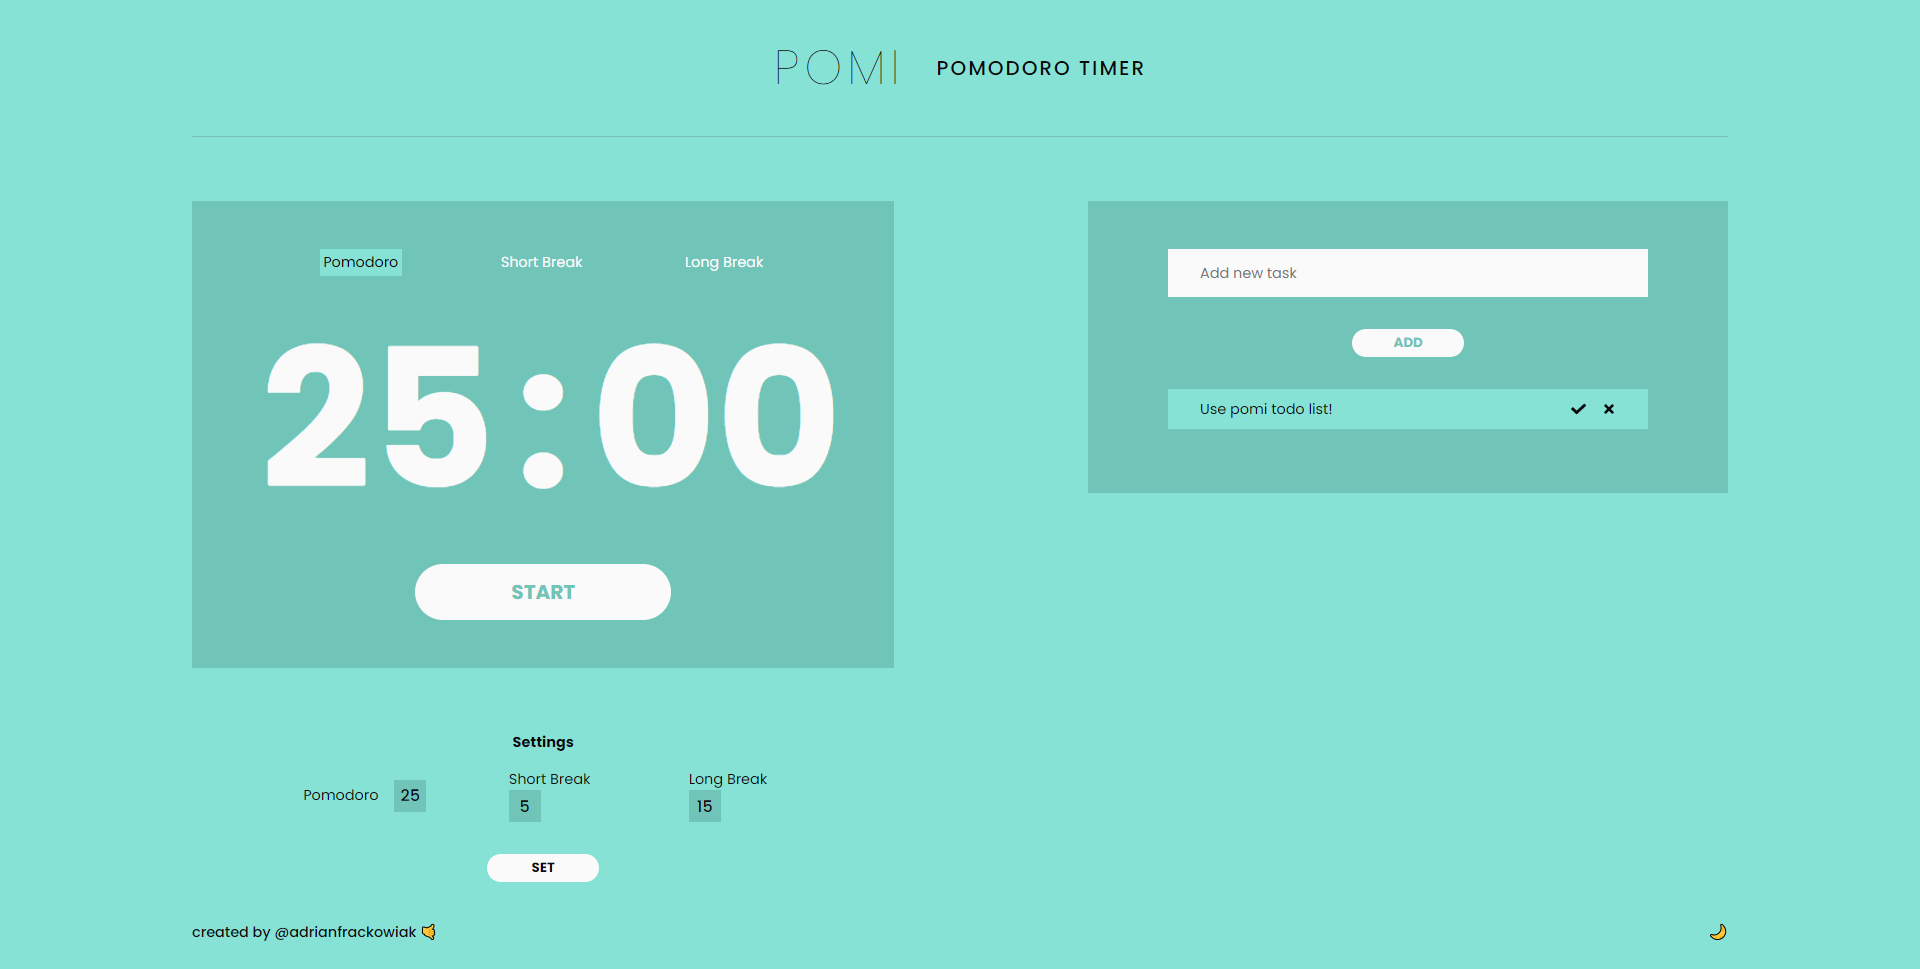
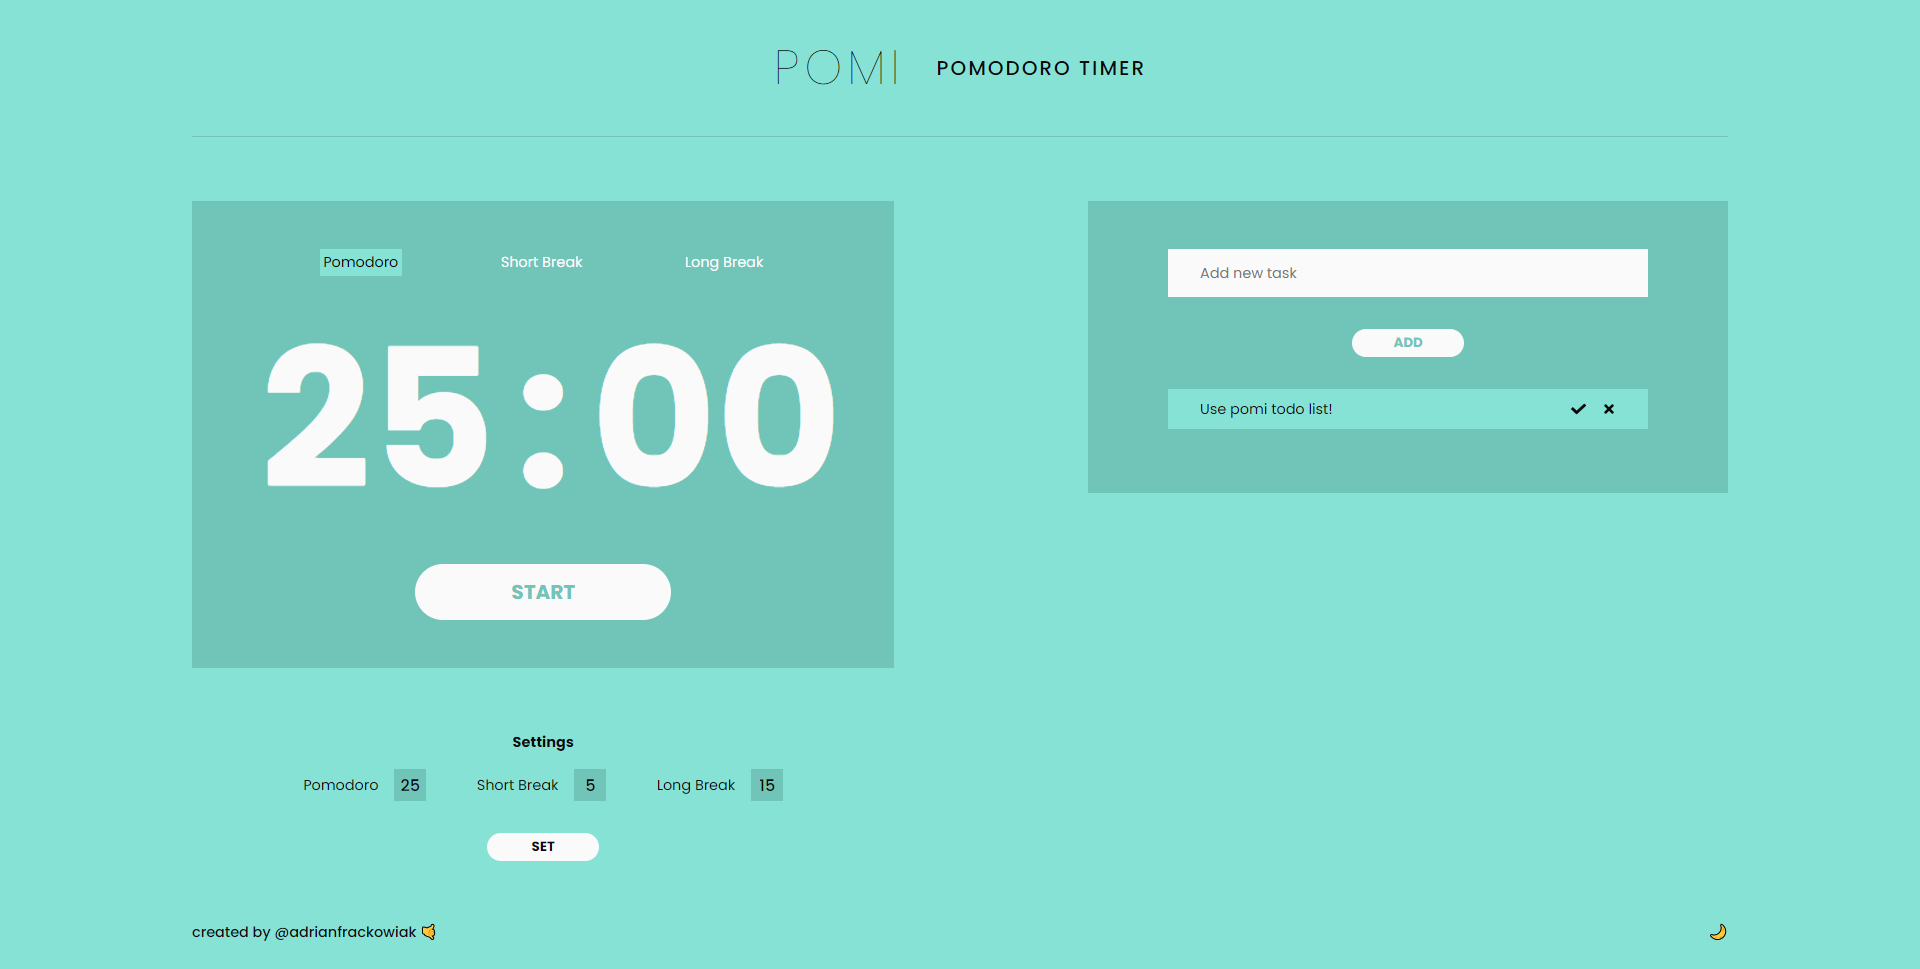
bugs fixed

Changed region(s): [[0.25, 0.774, 0.3125, 0.9288], [0.3438, 0.774, 0.4062, 0.8669], [0.1562, 0.774, 0.2188, 0.8359]]

diff --git a/src/components/app/pomodoro.js b/src/components/app/pomodoro.js
@@ -68,6 +68,11 @@ const Pomodoro = () => {
         }
     };
 
+    const playSound = () => {
+        let audio = new Audio('./sounds/alert.mp3');
+        audio.play();
+    };
+
     useEffect(() => {
         let interval = null;
         if (isTimerOn) {
@@ -79,6 +84,7 @@ const Pomodoro = () => {
             }, 1000);
             if (minutes === 0 && seconds === 0) {
                 clearInterval(interval);
+                playSound();
                 setTimeout(() => {
                     setIsTimerOn(false);
                     if (pomoType === 'pomo') {
